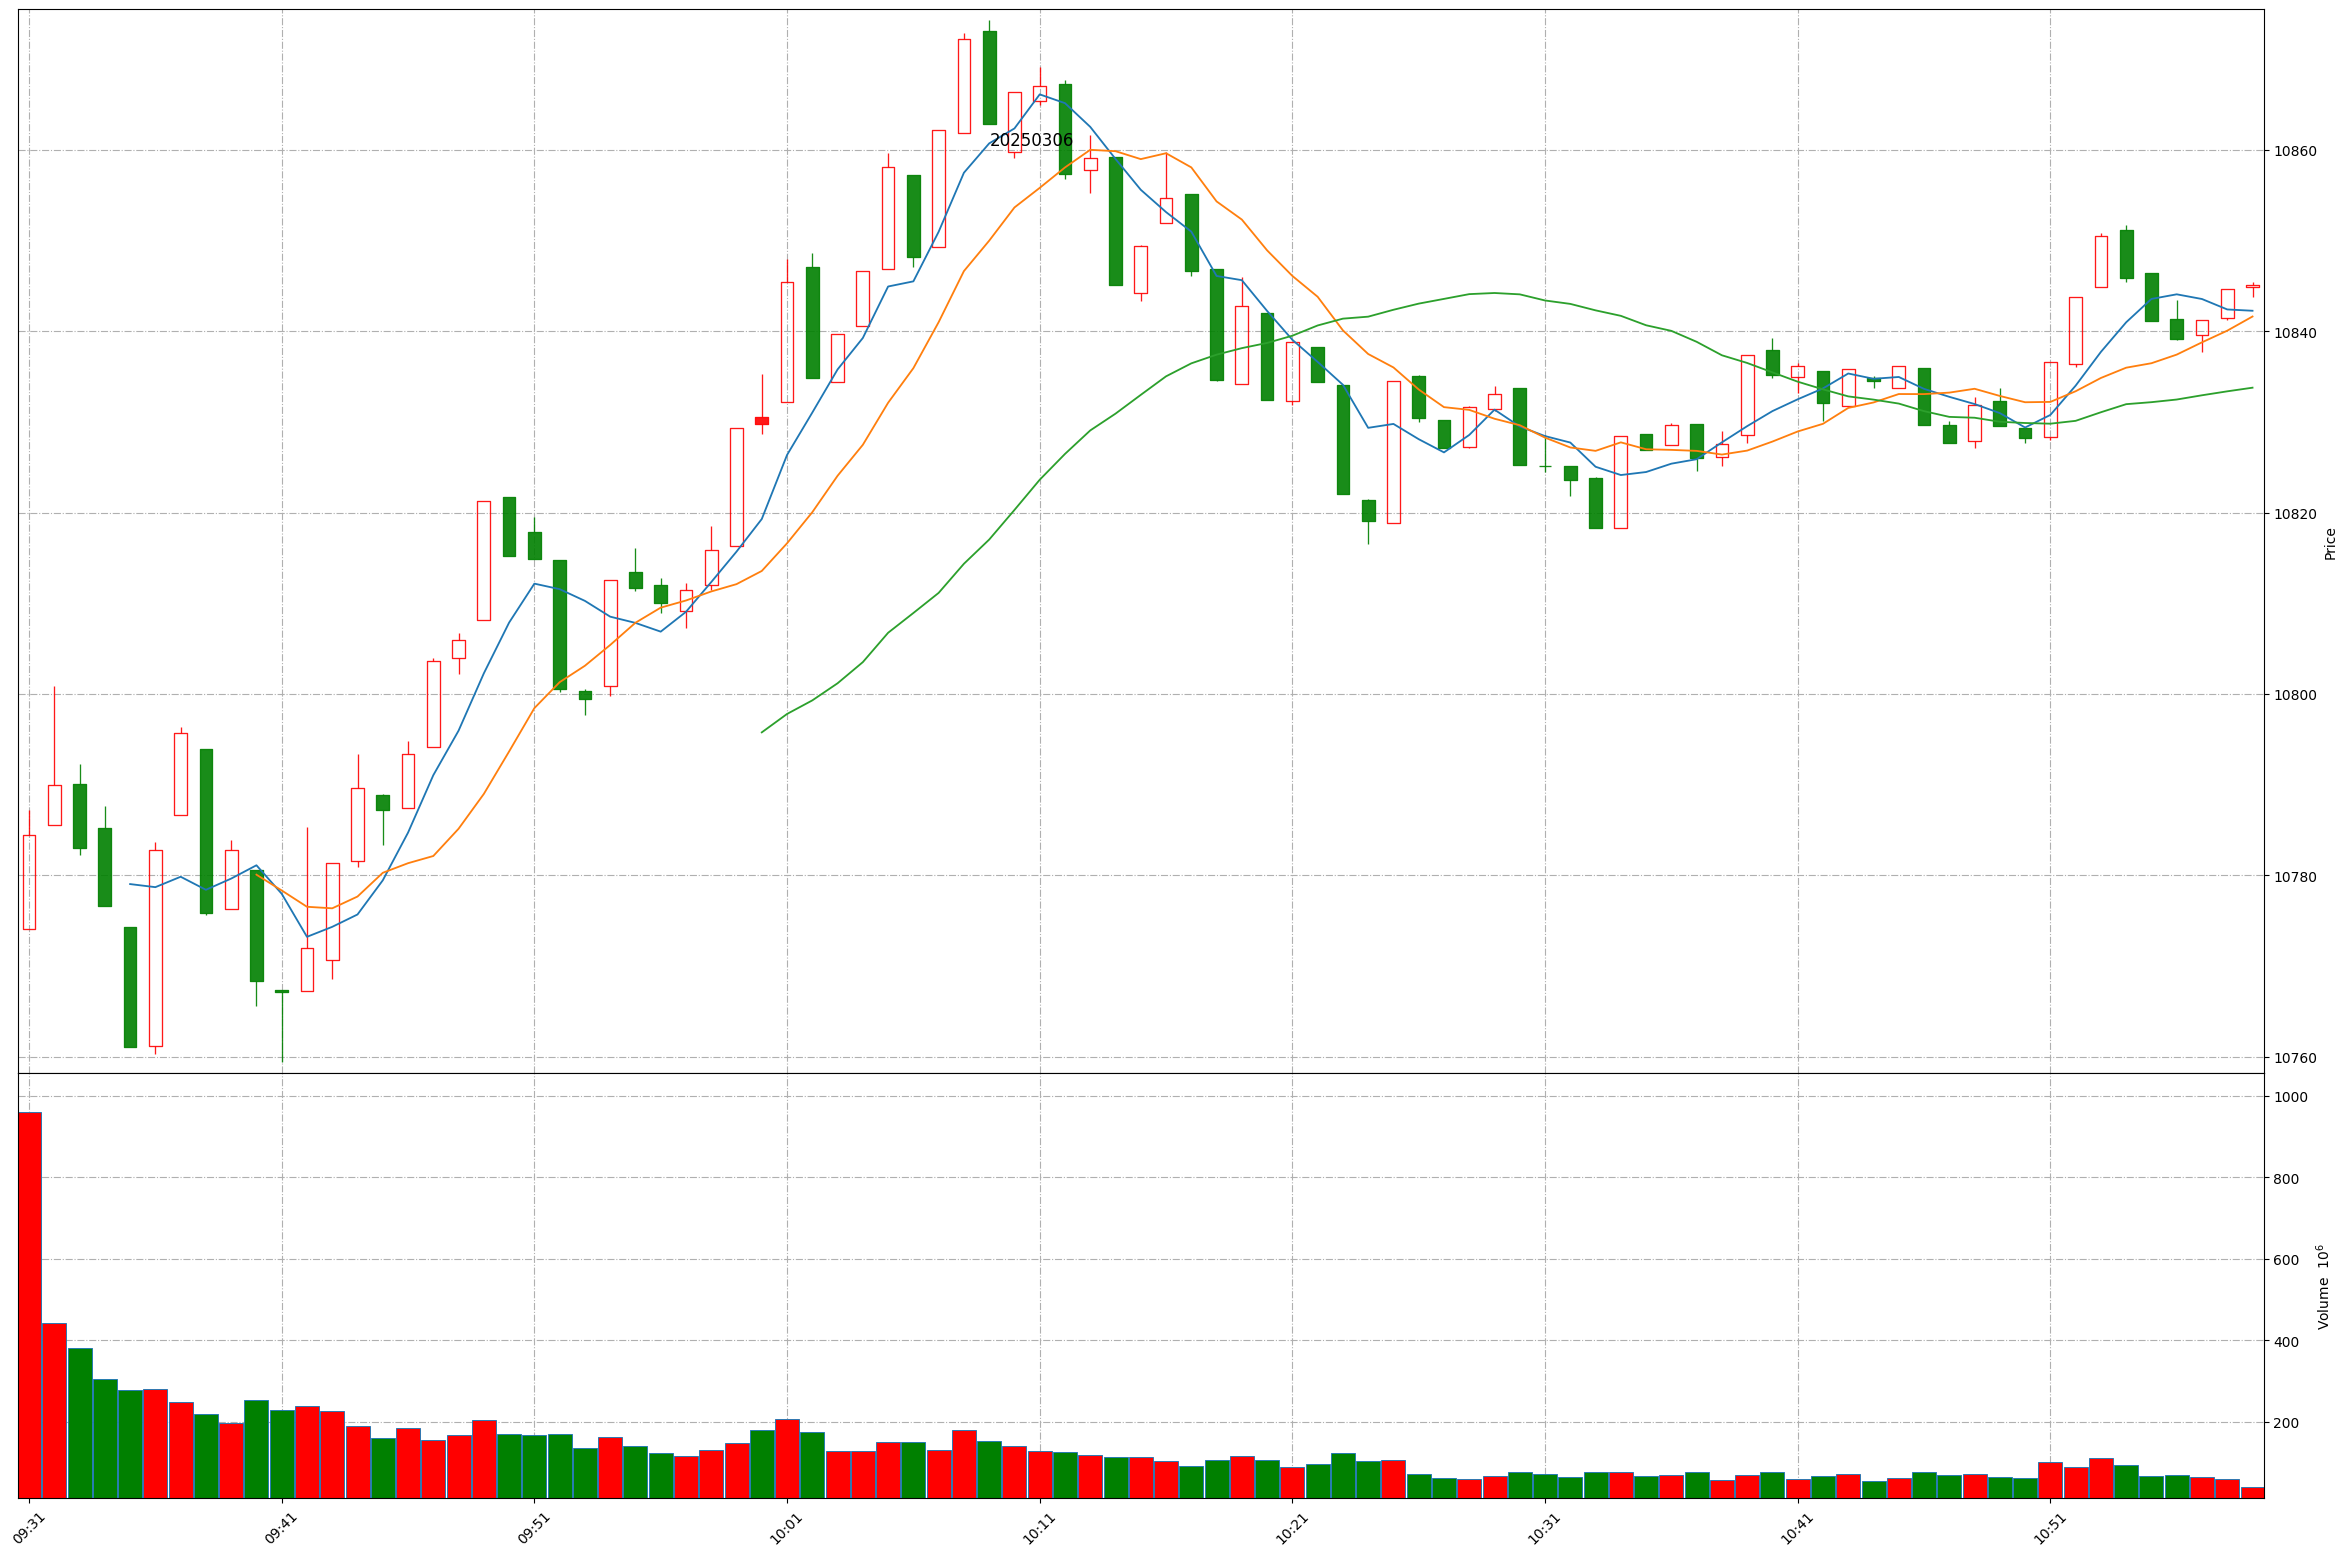
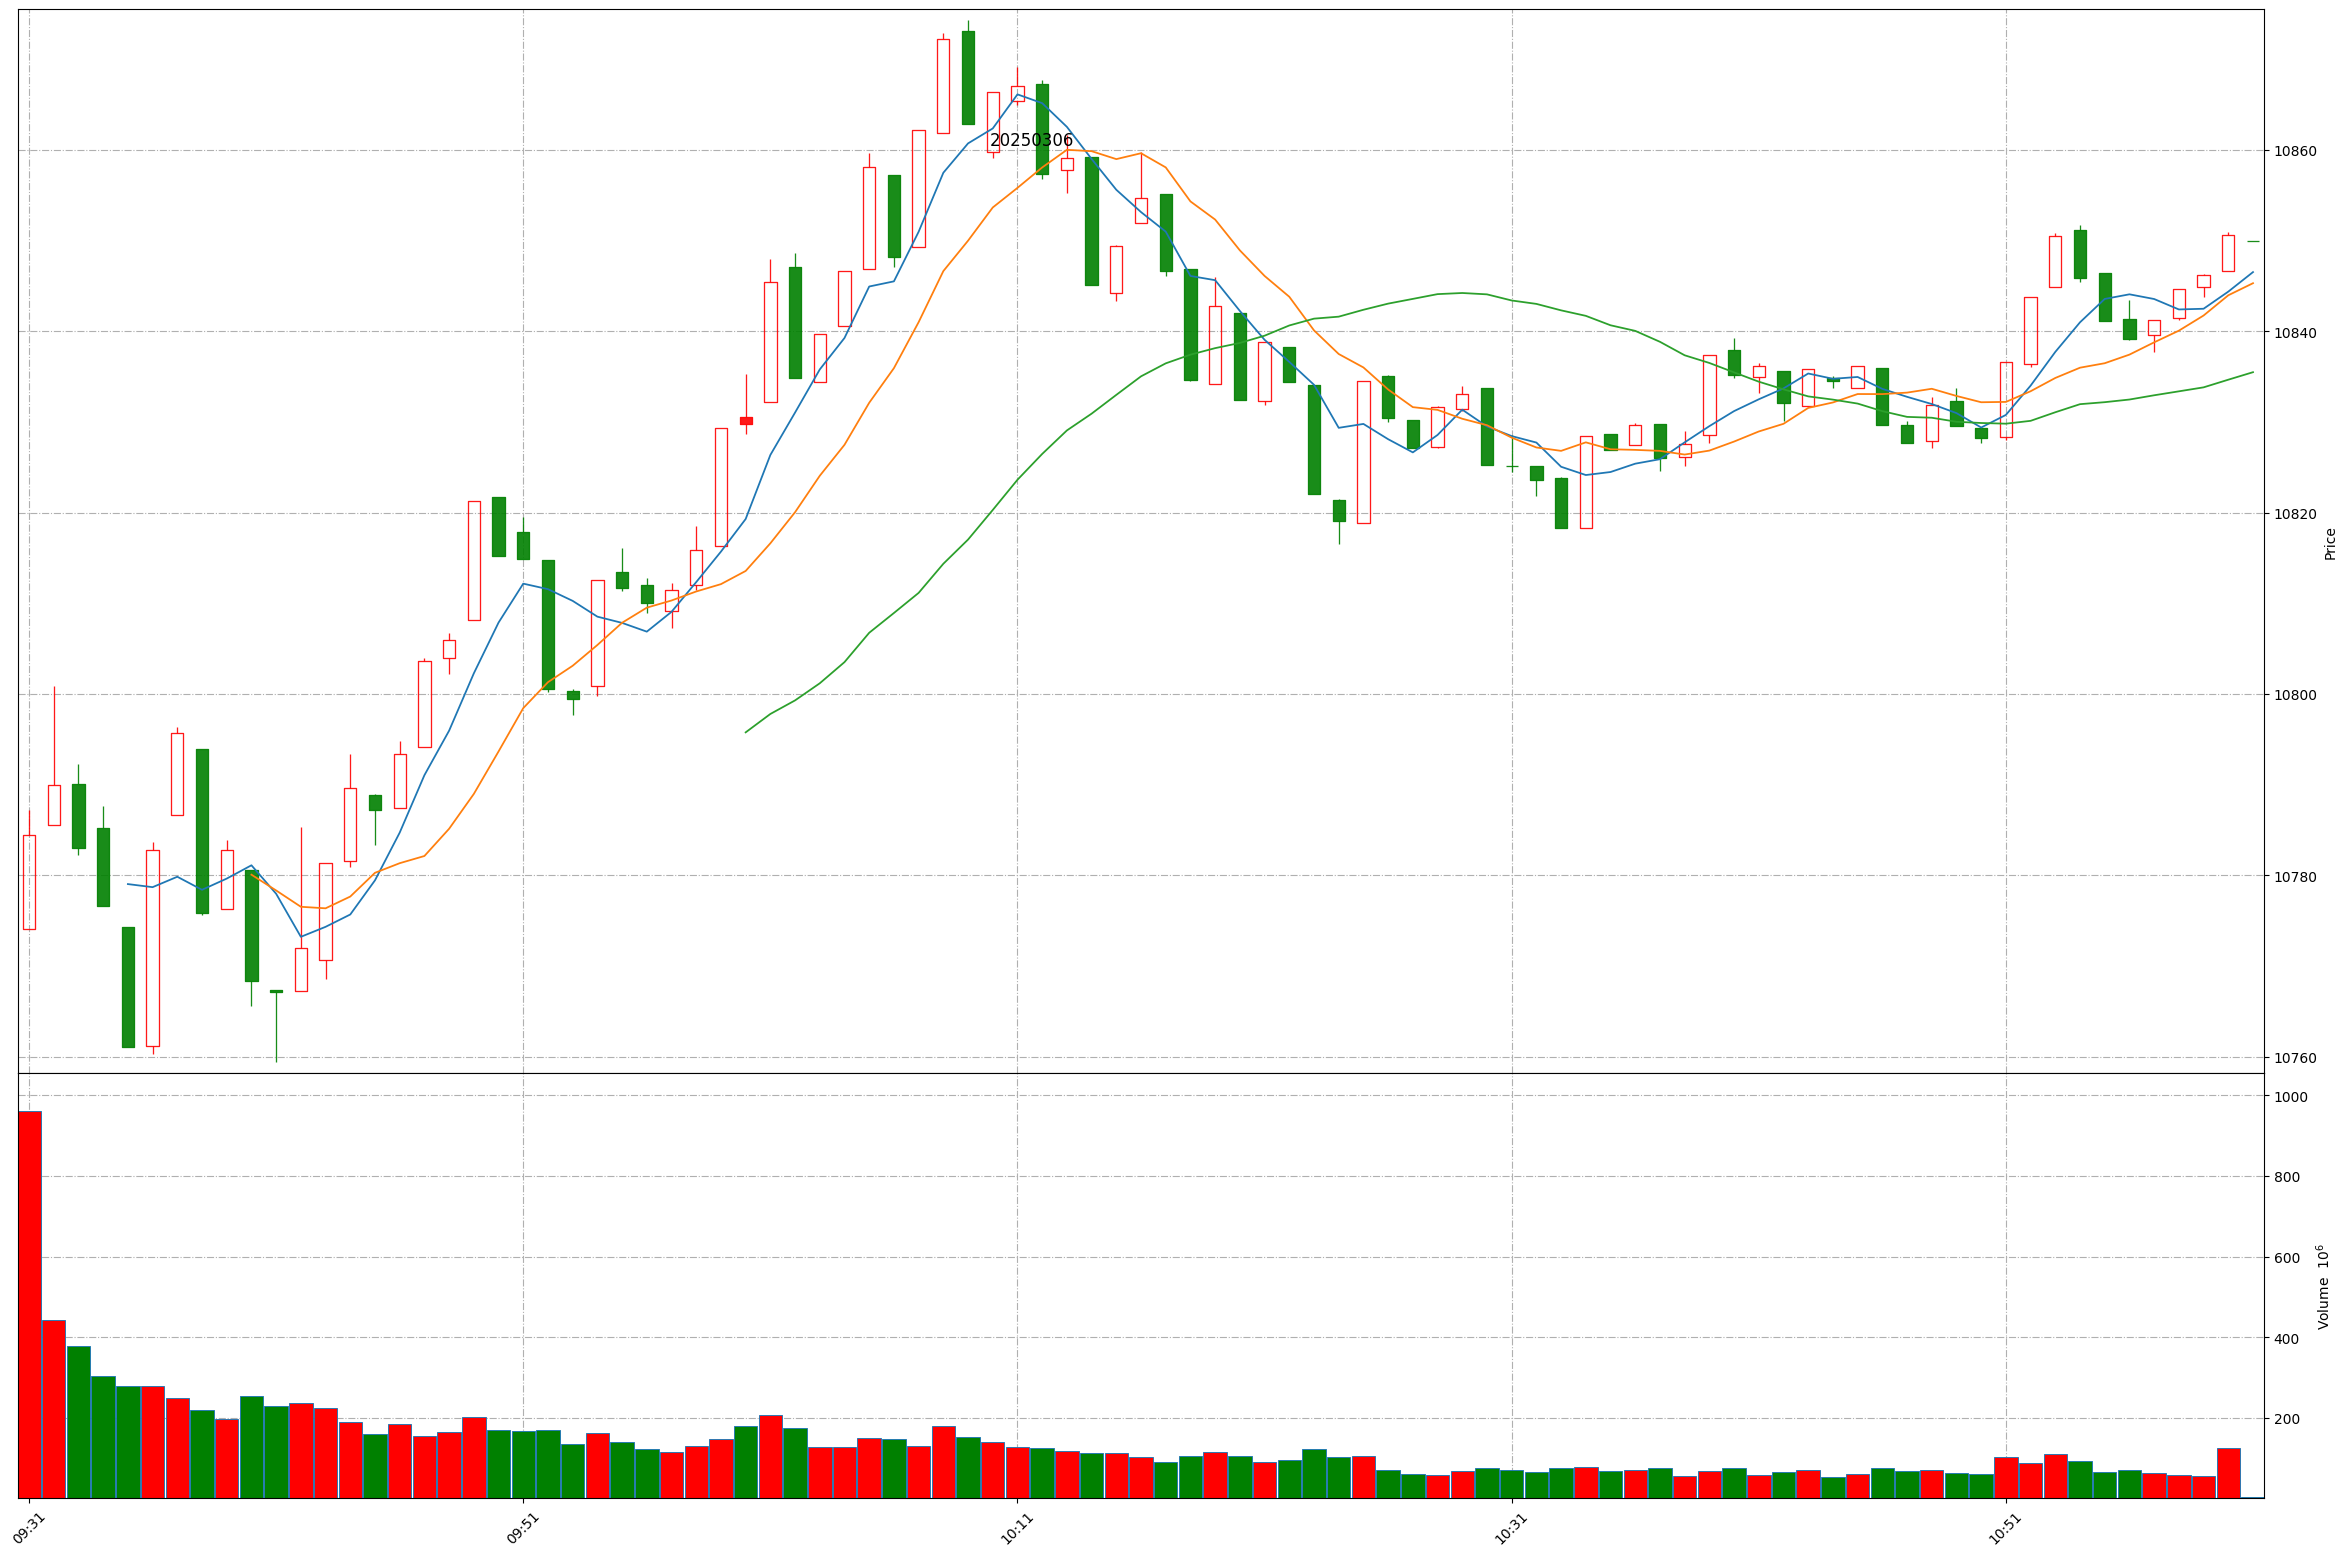
Github action update at 2025-03-06 11:00:17.

diff --git a/README.md b/README.md
@@ -1,11 +1,11 @@
 
 # Daily-A-share-market-quotes 每日 A 股指数（5min 更新）- 20250306
 
-### 上证指数 20250306 10:58
+### 上证指数 20250306 11:0
 ![](./fig/2025/3/20250306-sh000001.png)
 
-### 深证成指 20250306 10:58
+### 深证成指 20250306 11:0
 ![](./fig/2025/3/20250306-sz399001.png)
 
-### 北证50 20250306 10:58
+### 北证50 20250306 11:0
 ![](./fig/2025/3/20250306-bj899050.png)
